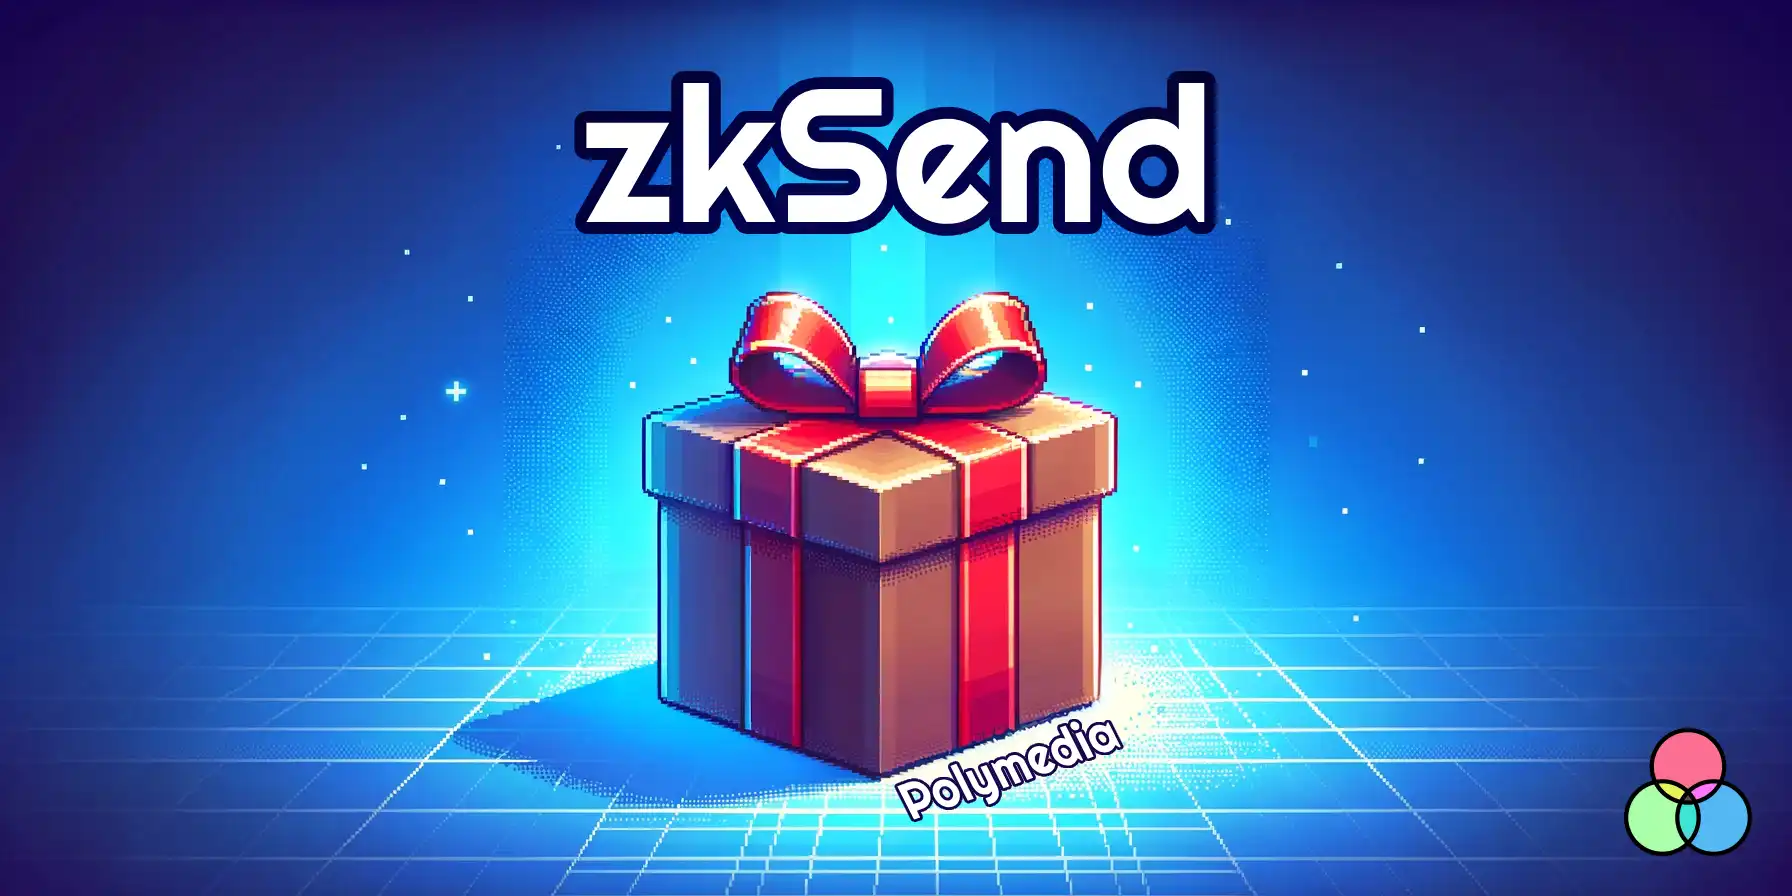
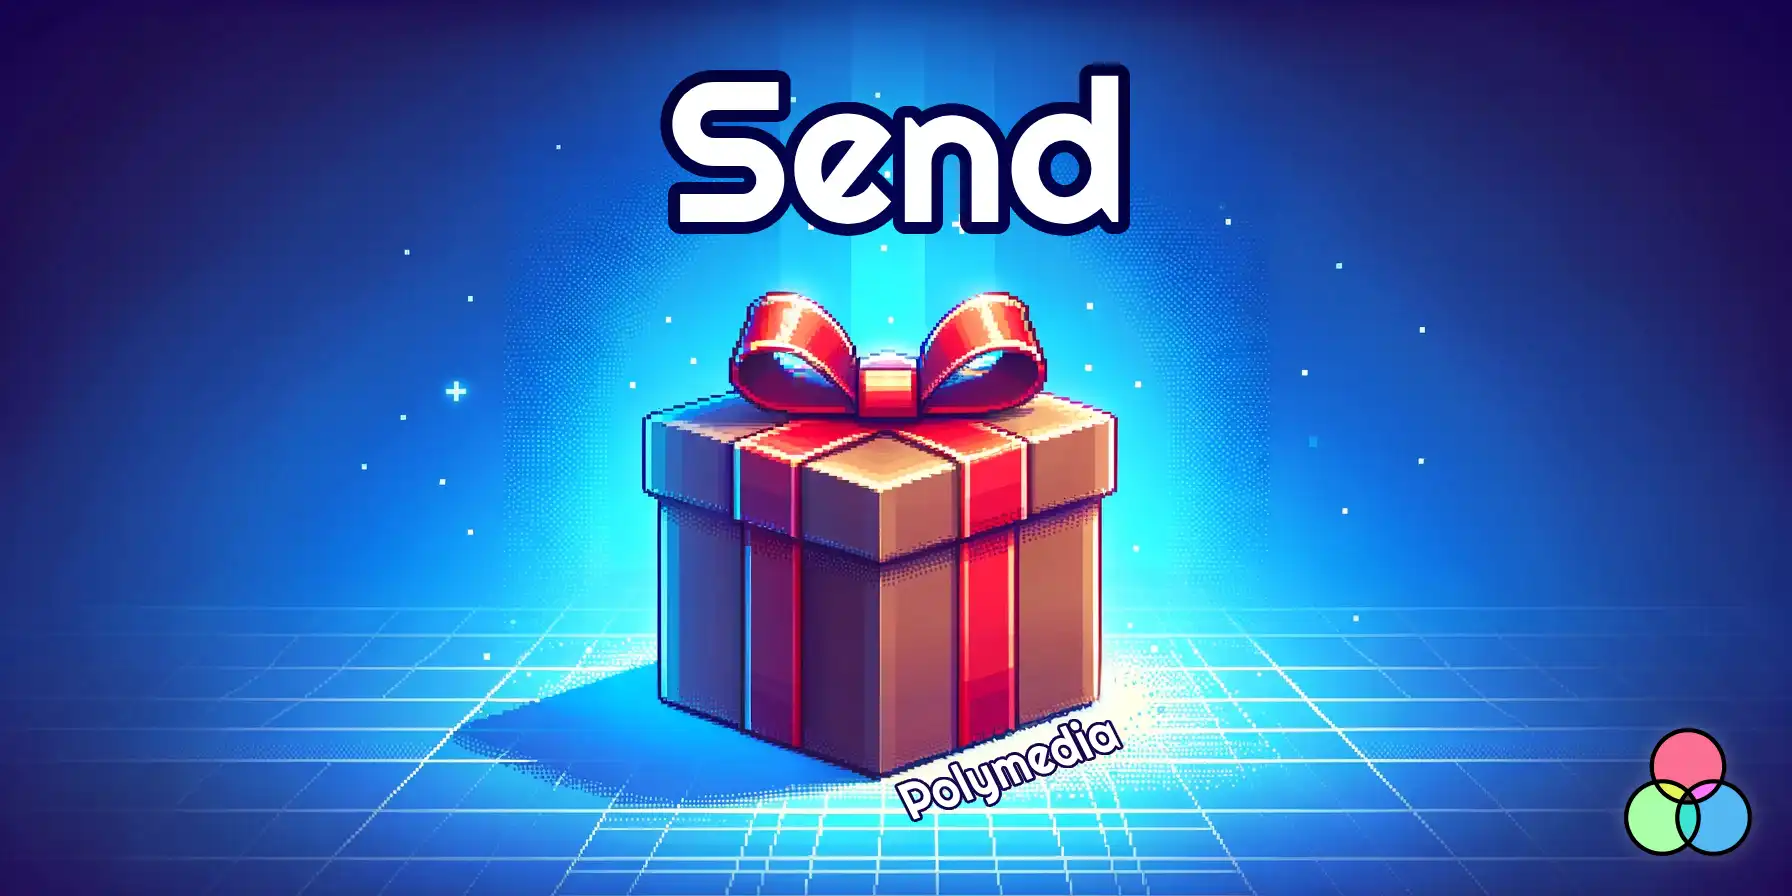
zkSend -> Send

Changed region(s): [[0.3125, 0.0625, 0.6875, 0.2812]]

diff --git a/src/web/index.html b/src/web/index.html
@@ -2,7 +2,7 @@
 <html lang="en">
 
 <head>
-    <title>zkSend | Polymedia</title>
+    <title>Send | Polymedia</title>
     <meta name="description" content="Send any Sui coin simply by sharing a link" />
     <link rel="icon" type="image/webp" href="https://assets.polymedia.app/img/all/logo-nomargin-transparent-512x512.webp">
 
@@ -11,13 +11,13 @@
     <meta name="robots" content="index,follow"/>
 
     <meta property="og:url" content="https://send.polymedia.app" />
-    <meta property="og:title" content="zkSend | Polymedia" />
+    <meta property="og:title" content="Send | Polymedia" />
     <meta property="og:description" content="Send any Sui coin simply by sharing a link" />
     <meta property="og:image" content="img/open-graph.webp" />
     <meta property="og:type" content="website"/>
 
     <meta name="twitter:url" content="https://send.polymedia.app" />
-    <meta name="twitter:title" content="zkSend | Polymedia" />
+    <meta name="twitter:title" content="Send | Polymedia" />
     <meta name="twitter:description" content="Send any Sui coin simply by sharing a link" />
     <meta name="twitter:image" content="https://send.polymedia.app/img/open-graph.webp" />
     <meta name="twitter:card" content="summary_large_image" />
